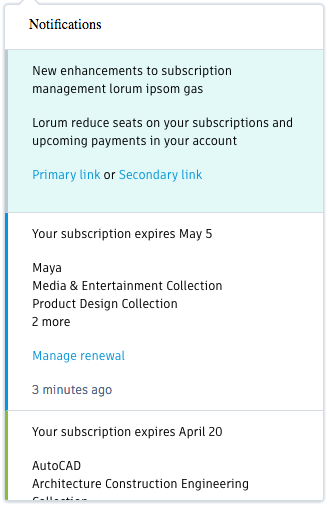
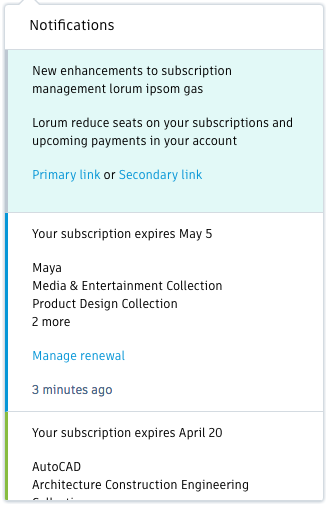
fix(notifications-flyout): Ensure Notifications list title meets typography standards

Changed region(s): [[0.0305, 0.8004, 0.9756, 0.8893], [0.0915, 0.8893, 0.7622, 1.0], [0.0915, 0.0296, 0.3659, 0.0593]]

diff --git a/packages/react/src/elements/components/Notification/notification.scss b/packages/react/src/elements/components/Notification/notification.scss
@@ -1,6 +1,8 @@
-@import '~@hig/styles/mixins/colors.scss';
 @import '~@hig/styles/mixins/base.scss';
+@import '~@hig/styles/mixins/colors.scss';
 @import '~@hig/styles/mixins/spacing.scss';
+@import '~@hig/styles/mixins/typography.scss';
+
 .hig__notification {
   position: relative;
   border-bottom: 1px solid color(hig-cool-gray-20);
@@ -84,10 +86,8 @@
 }
 
 .hig__notification__title {
-  font-size: 14px;
-  font-weight: 500;
-  line-height: 16px;
-  padding: spacing(s) spacing(l) spacing(m);
+  @include typography-base;
+  padding: spacing(s) spacing(l);
   border-bottom: 1px solid color(hig-cool-gray-20);
 }
 
